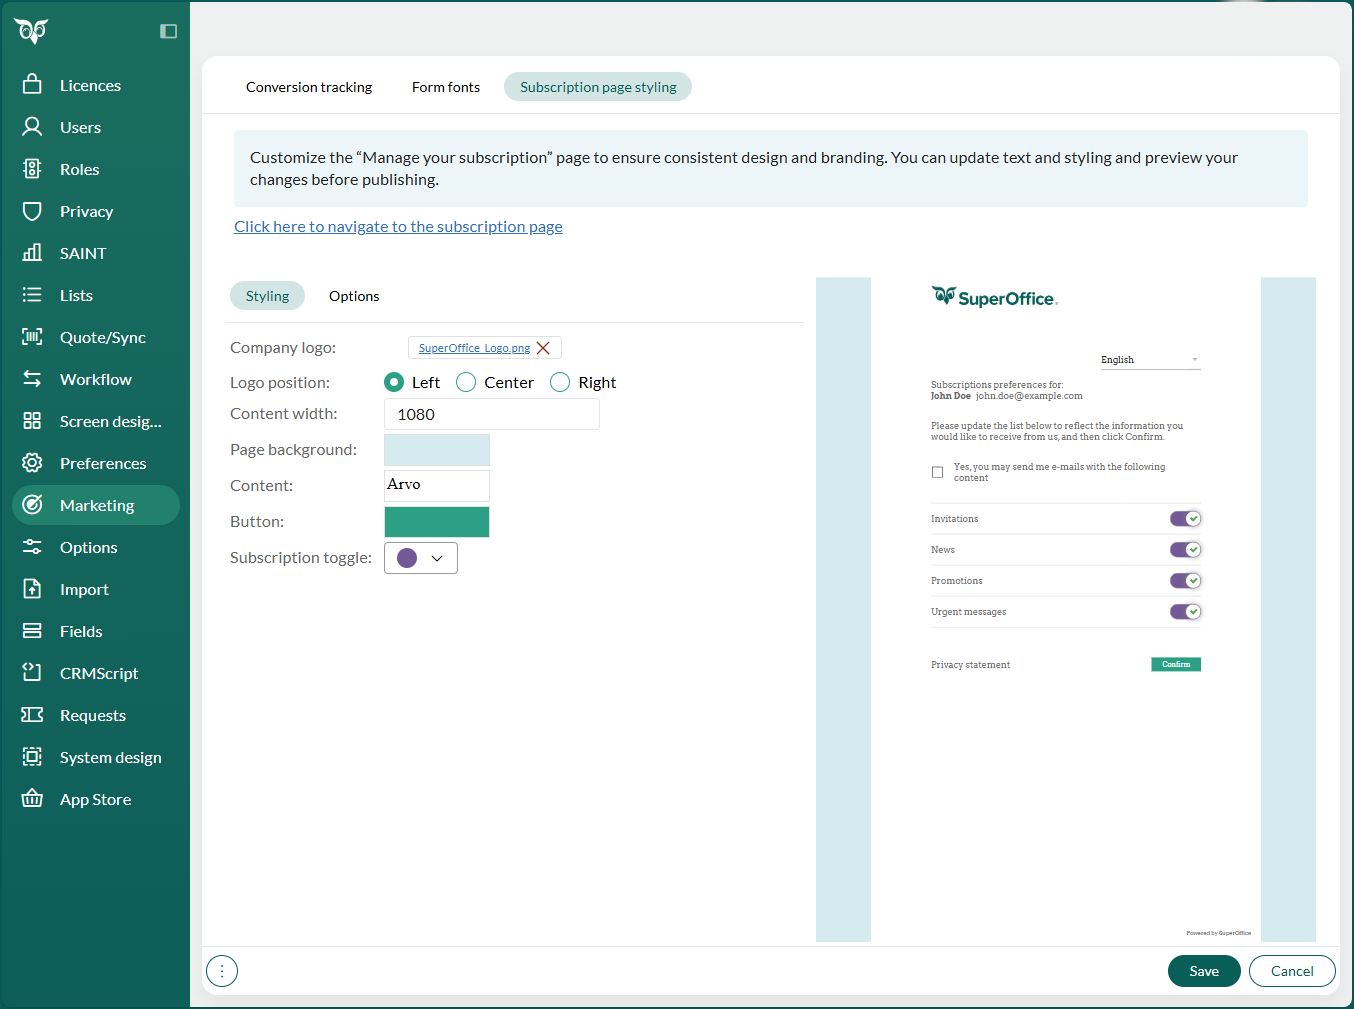
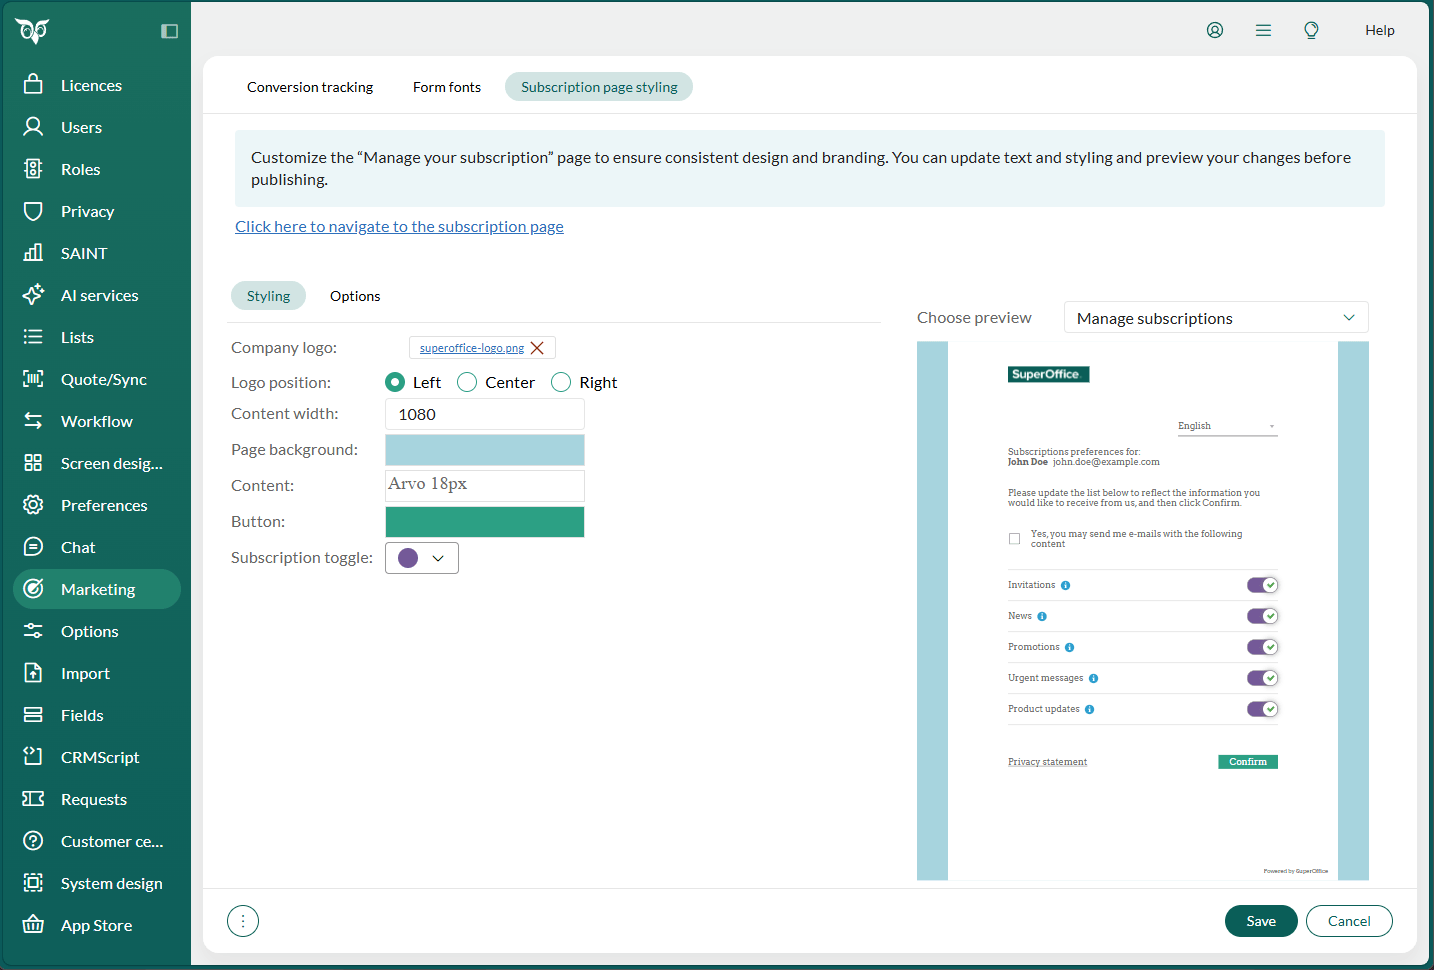
#2829 Update subscription page content and screenshots

diff --git a/docs/de/customer-center/admin/style-subscription-page.md b/docs/de/customer-center/admin/style-subscription-page.md
@@ -2,10 +2,10 @@
 uid: help-de-customer-center-subscription-page-styling
 title: Design der Abonnement-Seite
 description: So passen Sie das Design und den Text der Abonnementseite an Ihre Markenidentität an.
-keywords: Abonnementseite
+keywords: Abonnementseite, Abmelden, Bestätigungsseite
 author: digitaldiina
-date: 02.17.2026
-version: 11.10
+date: 03.17.2026
+version: 11.11
 content_type: howto
 audience: settings
 audience_tooltip: Einstellungen und Verwaltung
@@ -31,7 +31,7 @@ Sie können das Design und den Text der Abonnementseite anpassen, um sie mit Ihr
 1. Nehmen Sie Ihre Änderungen im Abschnitt **Stil** oder **Optionen** vor.
 1. Klicken Sie auf **Speichern**.
 
-Sie können Änderungen in zwei Abschnitten vornehmen: **Design** und **Optionen**. Eine Vorschau wird auf der rechten Seite angezeigt.
+Sie können Änderungen in zwei Abschnitten vornehmen: **Design** und **Optionen**. Eine Vorschau wird auf der rechten Seite angezeigt. Verwenden Sie das Dropdown **Vorschau auswählen**, um zu sehen, wie Ihre Änderungen auf den Seiten Abonnements verwalten, Abmelden, Bestätigung gespeichert und Bestätigung abgebrochen aussehen.
 
 ![Stil der Abonnementseite in Einstellungen und Verwaltung -screenshot][img1]
 
@@ -68,11 +68,9 @@ Verwenden Sie den Abschnitt **Optionen**, um Text für jede unterstützte Sprach
 
 1. Wählen Sie eine Sprache aus der Liste.
 
-1. Bearbeiten Sie die folgenden Felder:
+1. Wählen Sie die Seite aus, die Sie aktualisieren möchten. Eine Vorschau wird automatisch auf der rechten Seite angezeigt.
 
-    * **Überschrift**
-    * **Anweisungen**
-    * **Zustimmungstext**
+1. Bearbeiten Sie die verfügbaren Textfelder.
 
 ![Abonnementseite lokalisierte Textoptionen in Einstellungen und Verwaltung -screenshot][img2]
 

diff --git a/docs/en/customer-center/admin/style-subscription-page.md b/docs/en/customer-center/admin/style-subscription-page.md
@@ -2,10 +2,10 @@
 uid: help-en-customer-center-subscription-page-styling
 title: Style the subscription page
 description: How to customize the design and text of the subscription page to align it with your brand identity.
-keywords: subscription page
+keywords: subscription page, unsubscribe, confirmation page
 author: digitaldiina
-date: 02.17.2026
-version: 11.10
+date: 03.17.2026
+version: 11.11
 content_type: howto
 audience: settings
 audience_tooltip: Settings and maintenance
@@ -31,7 +31,7 @@ You can customize the design and text of the subscription page to align it with 
 1. Make your changes in the **Styling** or **Options** section.
 1. Click **Save**.
 
-You can make changes in two sections: **Styling** and **Options**. A preview is shown on the right-hand side.
+You can make changes in two sections: **Styling** and **Options**. A preview is shown on the right-hand side. Use the **Choose preview** dropdown to check how your changes look on the Manage subscriptions, Unsubscribe, Confirmation saved, and Confirmation cancelled pages.
 
 ![Subscription page styling in Settings and maintenance -screenshot][img1]
 
@@ -68,13 +68,11 @@ Use the **Options** section to customize text for each supported language.
 
 1. Select a language from the list.
 
-1. Edit the following fields:
+1. Select the page you want to update. A preview appears automatically on the right.
 
-    * **Header**
-    * **Instructions**
-    * **Consent text**
+1. Edit the available text fields.
 
-![Subscription page localized text options in Settings and maintenance -screenshot][img2]
+![Subscription page Options tab in Settings and maintenance -screenshot][img2]
 
 If you clear a field, the default SuperOffice text is restored automatically.
 

diff --git a/docs/nl/customer-center/admin/style-subscription-page.md b/docs/nl/customer-center/admin/style-subscription-page.md
@@ -2,10 +2,10 @@
 uid: help-nl-customer-center-subscription-page-styling
 title: Stijl van abonnementspagina
 description: Hoe u het ontwerp en de tekst van de abonnementspagina kunt aanpassen om het af te stemmen op uw merkidentiteit.
-keywords: abonnementspagina
+keywords: abonnementspagina, uitschrijven, bevestigingspagina
 author: digitaldiina
-date: 02.17.2026
-version: 11.10
+date: 03.17.2026
+version: 11.11
 content_type: howto
 audience: settings
 audience_tooltip: Instellingen en onderhoud
@@ -31,7 +31,7 @@ U kunt het ontwerp en de tekst van de abonnementspagina aanpassen om het af te s
 1. Breng uw wijzigingen aan in de sectie **Stijl** of **Opties**.
 1. Klik op **Opslaan**.
 
-U kunt wijzigingen aanbrengen in twee secties: **Styling** en **Opties**. Een voorbeeld wordt aan de rechterkant weergegeven.
+U kunt wijzigingen aanbrengen in twee secties: **Styling** en **Opties**. Een voorbeeld wordt aan de rechterkant weergegeven. Gebruik het vervolgkeuzemenu **Voorbeeld kiezen** om te controleren hoe uw wijzigingen eruit zien op de pagina's Abonnementen beheren, Uitschrijven, Bevestiging opgeslagen en Bevestiging geannuleerd.
 
 ![Stijl abonnementspagina in Instellingen en onderhoud -screenshot][img1]
 
@@ -68,11 +68,9 @@ Gebruik de sectie **Opties** om tekst voor elke ondersteunde taal aan te passen.
 
 1. Selecteer een taal uit de lijst.
 
-1. Bewerk de volgende velden:
+1. Selecteer de pagina die u wilt bijwerken. Een voorbeeld verschijnt automatisch aan de rechterkant.
 
-    * **Koptekst**
-    * **Instructies**
-    * **Instemmingstekst**
+1. Bewerk de beschikbare tekstvelden.
 
 ![Abonnementspagina gelokaliseerde tekstopties in Instellingen en onderhoud -screenshot][img2]
 

diff --git a/docs/da/customer-center/admin/style-subscription-page.md b/docs/da/customer-center/admin/style-subscription-page.md
@@ -2,10 +2,10 @@
 uid: help-da-customer-center-subscription-page-styling
 title: Styling af abonnementssiden
 description: Sådan tilpasser du design og tekst på abonnementssiden, så den passer til dit brands identitet.
-keywords: abonnementsside
+keywords: abonnementsside, frameld, bekræftelsesside
 author: digitaldiina
-date: 02.17.2026
-version: 11.10
+date: 03.17.2026
+version: 11.11
 content_type: howto
 audience: settings
 audience_tooltip: Indstillinger og vedligeholdelse
@@ -31,7 +31,7 @@ Du kan tilpasse design og tekst på abonnementssiden, så den passer til dit bra
 1. Foretag dine ændringer i sektionen **Styling** eller **Indstillinger**.
 1. Klik på **Gem**.
 
-Du kan foretage ændringer i to sektioner: **Styling** og **Indstillinger**. En forhåndsvisning vises i højre side.
+Du kan foretage ændringer i to sektioner: **Styling** og **Indstillinger**. En forhåndsvisning vises i højre side. Brug rullemenuen **Vælg forhåndsvisning** til at kontrollere, hvordan dine ændringer ser ud på siderne Administrer abonnementer, Frameld, Bekræftelsen blev gemt og Bekræftelsen blev annulleret.
 
 ![Stil abonnementsside i Indstillinger og vedligeholdelse -screenshot][img1]
 
@@ -68,11 +68,9 @@ Brug sektionen **Indstillinger** til at tilpasse tekst for hvert understøttet s
 
 1. Vælg et sprog fra listen.
 
-1. Rediger følgende felter:
+1. Vælg den side, du vil opdatere. En forhåndsvisning vises automatisk til højre.
 
-    * **Overskrift**
-    * **Instruktioner**
-    * **Samtykkestekst**
+1. Rediger de tilgængelige tekstfelter.
 
 ![Abonnementssside lokaliseret tekst indstillinger i Indstillinger og vedligeholdelse -screenshot][img2]
 

diff --git a/docs/no/customer-center/admin/style-subscription-page.md b/docs/no/customer-center/admin/style-subscription-page.md
@@ -2,10 +2,10 @@
 uid: help-no-customer-center-subscription-page-styling
 title: Styling av abonnementssiden
 description: Hvordan tilpasse design og tekst på abonnementssiden slik at den samsvarer med din merkevareidentitet.
-keywords: abonnementsside
+keywords: abonnementsside, avmelding, bekreftelsesside
 author: digitaldiina
-date: 02.17.2026
-version: 11.10
+date: 03.17.2026
+version: 11.11
 content_type: howto
 audience: settings
 audience_tooltip: Innstillinger og vedlikehold
@@ -31,7 +31,7 @@ Du kan tilpasse design og tekst på abonnementssiden slik at den samsvarer med d
 1. Gjør endringene dine i seksjonen **Stil** eller **Alternativer**.
 1. Klikk på **Lagre**.
 
-Du kan gjøre endringer i to seksjoner: **Stil** og **Alternativer**. En forhåndsvisning vises på høyre side.
+Du kan gjøre endringer i to seksjoner: **Stil** og **Alternativer**. En forhåndsvisning vises på høyre side. Bruk rullegardinmenyen **Velg forhåndsvisning** for å kontrollere hvordan endringene dine ser ut på sidene Administrer abonnement, Avmelding, Bekreftelse lagret og Bekreftelse avbrutt.
 
 ![Stil abonnementsside i Innstillinger og vedlikehold -screenshot][img1]
 
@@ -68,11 +68,9 @@ Bruk seksjonen **Alternativer** til å tilpasse tekst for hvert støttet språk.
 
 1. Velg et språk fra listen.
 
-1. Rediger følgende felter:
+1. Velg siden du vil oppdatere. En forhåndsvisning vises automatisk til høyre.
 
-    * **Overskrift**
-    * **Instruksjoner**
-    * **Samtykkestekst**
+1. Rediger de tilgjengelige tekstfeltene.
 
 ![Abonnementsside lokalisert tekst alternativer i Innstillinger og vedlikehold -screenshot][img2]
 
